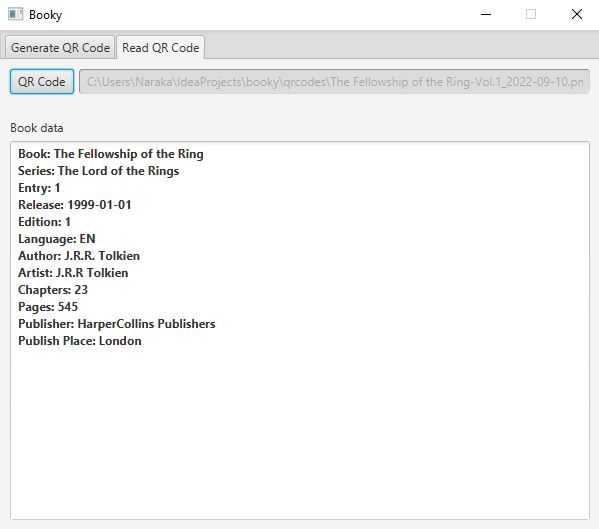
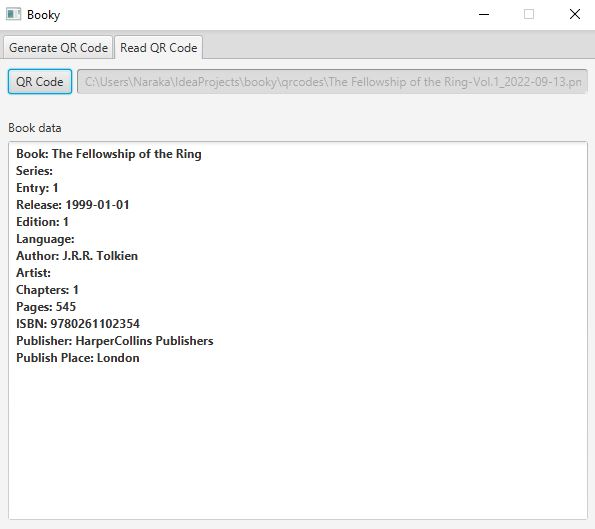
Add ISBN textfield for normal input.

diff --git a/src/main/java/gui/view/generateqr/GenerateQRCodeViewController.java b/src/main/java/gui/view/generateqr/GenerateQRCodeViewController.java
@@ -38,12 +38,12 @@ public final class GenerateQRCodeViewController {
     private File qrOutDirAsFile;
 
     @FXML
-    private TextField isbn;
+    private TextField isbnAutofill;
 
     @FXML
     private Button autofillButton;
 
-    private TextFormatter<Long> isbnFormatter;
+    private TextFormatter<Long> isbnAutofillFormatter;
 
     @FXML
     private Button generateQrCodeButton;
@@ -87,6 +87,11 @@ public final class GenerateQRCodeViewController {
     private TextField pageAmount;
 
     private TextFormatter<Integer> pageAmountFormatter;
+
+    @FXML
+    private TextField isbn;
+
+    private TextFormatter<Long> isbnFormatter;
 
     @FXML
     private ImageView qrCodeImage;
@@ -148,6 +153,9 @@ public final class GenerateQRCodeViewController {
             }
             return change;
         };
+        isbnAutofillFormatter = new TextFormatter<>(new LongStringConverter(), null, isbnValidation);
+        isbnAutofill.setTextFormatter(isbnAutofillFormatter);
+
         isbnFormatter = new TextFormatter<>(new LongStringConverter(), null, isbnValidation);
         isbn.setTextFormatter(isbnFormatter);
     }
@@ -175,15 +183,14 @@ public final class GenerateQRCodeViewController {
 
     @FXML
     private void onAutofill() {
-        OpenLibraryBook openLibraryBook = OpenLibraryService.getBookByIsbn(isbnFormatter.getValue());
+        OpenLibraryBook openLibraryBook = OpenLibraryService.getBookByIsbn(isbnAutofillFormatter.getValue());
         OpenLibraryBookData openLibraryBookData = openLibraryBook.getOpenLibraryBookData();
         if (openLibraryBookData != null) {
-            openLibraryBookData.setIsbn(isbnFormatter.getValue());
+            openLibraryBookData.setIsbn(isbnAutofillFormatter.getValue());
             populateFieldValues(openLibraryBookData);
         } else {
             new Alert(Alert.AlertType.INFORMATION, "No ISBN book data available!").showAndWait();
         }
-
     }
 
     @FXML
@@ -203,6 +210,7 @@ public final class GenerateQRCodeViewController {
                 .setArtist(artist)
                 .setChapterAmount(chapterAmountFormatter)
                 .setPageAmount(pageAmountFormatter)
+                .setIsbn(isbnFormatter)
                 .setPublisher(publisher)
                 .setPublishPlace(publisherPlace)
                 .build();
@@ -236,6 +244,7 @@ public final class GenerateQRCodeViewController {
                 .stream().map(Author::getName).toList()));
         pageAmountFormatter.setValue(openLibraryBookData.getNumberOfPages() != 0 ?
                 openLibraryBookData.getNumberOfPages() : 1);
+        isbnFormatter.setValue(openLibraryBookData.getIsbn());
         releaseDate.setValue(LocalDate.of(openLibraryBookData.getPublishDate(), 1, 1));
         publisher.setText(String.join(", ", openLibraryBookData.getPublishers()
                 .stream().map(Publisher::getName).toList()));

diff --git a/src/main/java/gui/model/book/Book.java b/src/main/java/gui/model/book/Book.java
@@ -24,6 +24,8 @@ public final class Book {
 
     private int pageAmount;
 
+    private Long isbn;
+
     private String publisher;
 
     private String publishPlace;
@@ -108,6 +110,14 @@ public final class Book {
         this.pageAmount = pageAmount;
     }
 
+    public Long getIsbn() {
+        return isbn;
+    }
+
+    public void setIsbn(Long isbn) {
+        this.isbn = isbn;
+    }
+
     public String getPublisher() {
         return publisher;
     }
@@ -129,7 +139,7 @@ public final class Book {
                 "Series: " + seriesName + " \nEntry: " + seriesEntry + " \n" +
                 "Release: " + releaseDate + " \nEdition: " + edition + " \nLanguage: " + language + " \n" +
                 "Author: " + author + " \nArtist: " + artist + " \n" +
-                "Chapters: " + chapterAmount + " \nPages: " + pageAmount + "\n" +
+                "Chapters: " + chapterAmount + " \nPages: " + pageAmount + "\nISBN: " + isbn + "\n" +
                 "Publisher: " + publisher + "\n" + "Publish Place: " + publishPlace;
     }
 
@@ -146,6 +156,7 @@ public final class Book {
                 ", artist='" + artist + '\'' +
                 ", chapterAmount=" + chapterAmount +
                 ", pageAmount=" + pageAmount +
+                ", isbn=" + isbn +
                 ", publisher='" + publisher + '\'' +
                 ", publishPlace='" + publishPlace + '\'' +
                 '}';

diff --git a/src/main/java/gui/model/book/BookCustomMapper.java b/src/main/java/gui/model/book/BookCustomMapper.java
@@ -70,6 +70,11 @@ public final class BookCustomMapper {
         return this;
     }
 
+    public BookCustomMapper setIsbn(TextFormatter<Long> node) {
+        book.setIsbn(node.getValue());
+        return this;
+    }
+
     public BookCustomMapper setPublisher(TextField node) {
         book.setPublisher(node.getText());
         return this;
